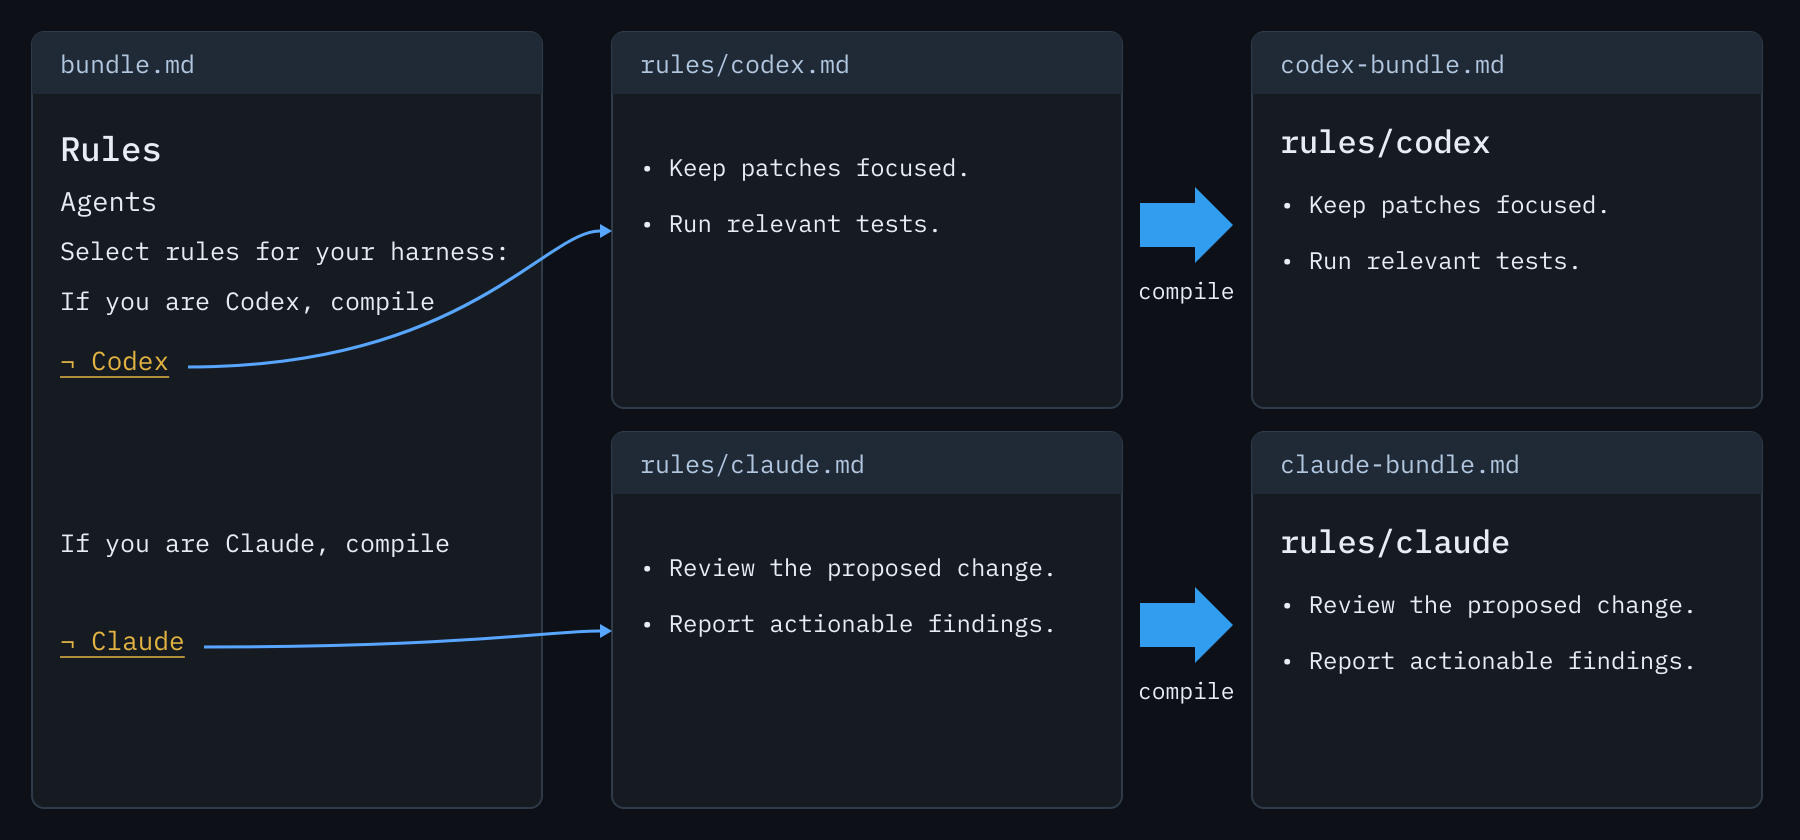
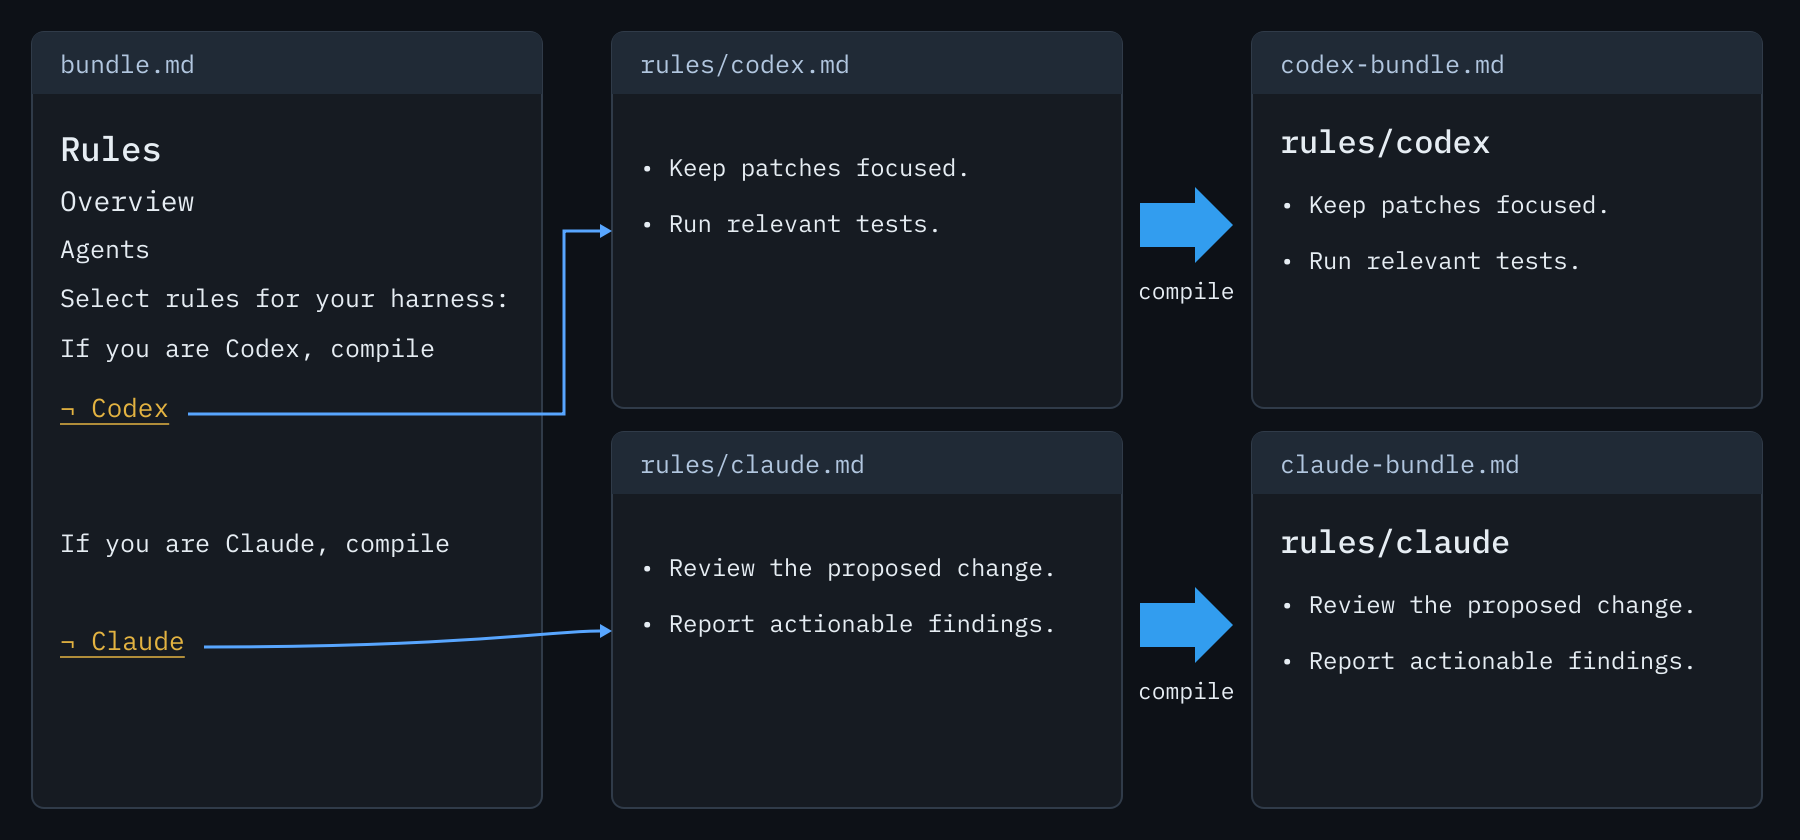
docs: flatten shared example documents

diff --git a/README.md b/README.md
@@ -37,7 +37,7 @@ prosiform --root my-skill \
   --output bundle.md procedure.md rules/common.md
 ```
 
-![SKILL.md selects procedure.md and rules/common.md. Procedure includes tips.md; Rules includes rules/agents.md. Agents is a subsection of the Rules group and directs each harness to its deferred Codex or Claude rules. SKILL.md and the harness-specific rules are excluded.](docs/images/compilation.png)
+![SKILL.md selects procedure.md and rules/common.md. Procedure includes tips.md; Rules includes rules/agents.md. Agents and Common appear under Rules / Overview; Agents directs each harness to its deferred Codex or Claude rules. SKILL.md and the harness-specific rules are excluded.](docs/images/compilation.png)
 
 #### Compile agent-specific rules
 

diff --git a/example/my-skill/rules/agents.md b/example/my-skill/rules/agents.md
@@ -1,5 +1,3 @@
-# Agents
-
 Select rules for your harness:
 
 - If you are Codex, compile [¬ Codex](codex.md).

diff --git a/example/my-skill/procedure.md b/example/my-skill/procedure.md
@@ -1,5 +1,3 @@
-# Procedure
-
 Read [Tips](tips.md)
 
 1. Write the draft.

diff --git a/example/my-skill/rules/common.md b/example/my-skill/rules/common.md
@@ -1,5 +1,3 @@
-# Rules
-
 - Check every link.
 - Use clear headings.
 

diff --git a/example/my-skill/tips.md b/example/my-skill/tips.md
@@ -1,3 +1,1 @@
-# Tips
-
 Keep paragraphs short.
